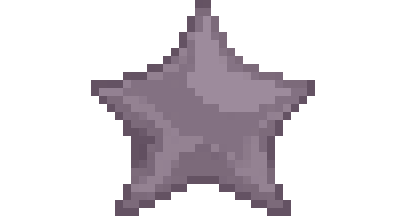
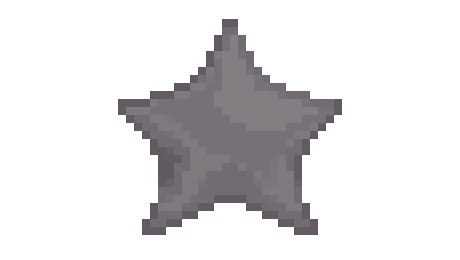
Refine style on stars.

Changed region(s): [[0.2069, 0.0, 0.798, 0.973]]

diff --git a/src/components/levellist/ScoreStars.vue b/src/components/levellist/ScoreStars.vue
@@ -1,5 +1,6 @@
 <template>
 <div class="score-stars">
+  <div class="stars-shadow" />
   <div class="left-star-enabled"
     v-show="hasSpeed" />
   <div class="left-star-disabled"
@@ -50,6 +51,10 @@ export default {
         position: absolute;
     }
 
+    .stars-shadow {
+        background-image: url("../../game/images/stars-shadow.png");
+        opacity: 0.3;
+    }
     .left-star-enabled {
         background-image: url("../../game/images/star-left-enabled.png");
     }

diff --git a/src/components/levellist/LevelItem.vue b/src/components/levellist/LevelItem.vue
@@ -9,7 +9,7 @@
 
   <score-stars :score="score"
     :level="level"
-    v-show="!locked" />
+    v-show="!locked && score && score.won" />
 </li>
 </template>
 
